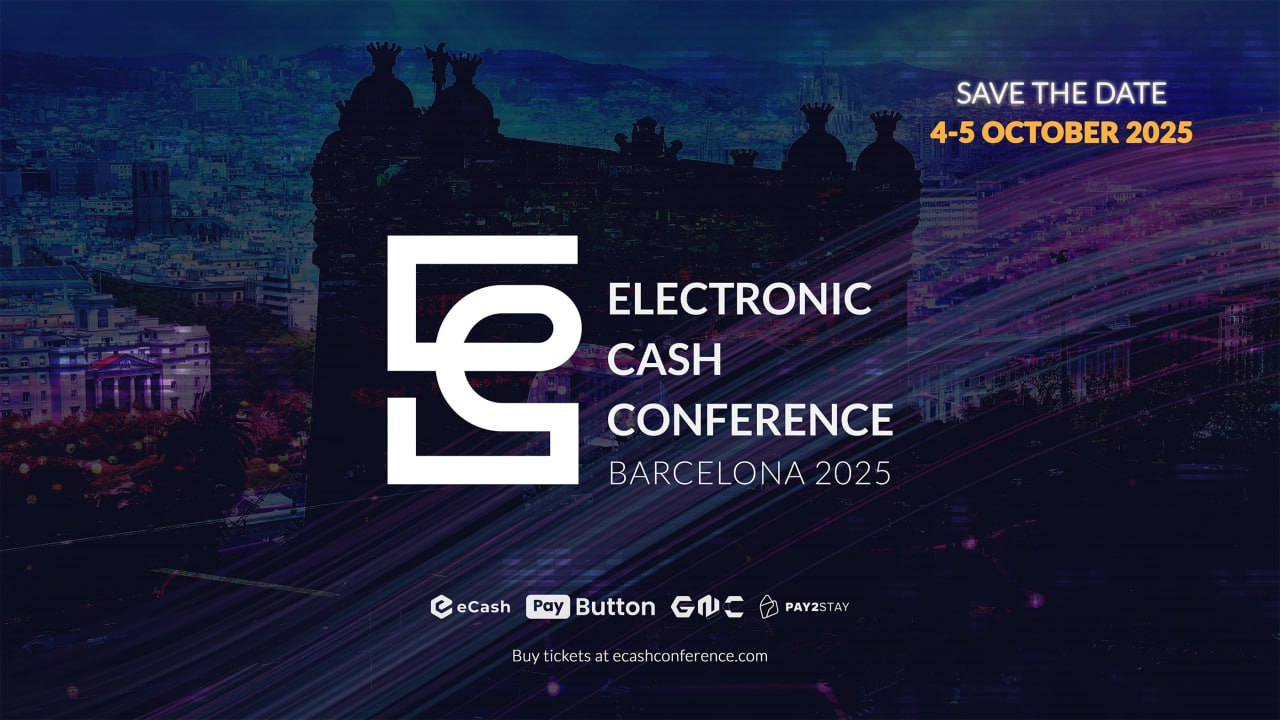
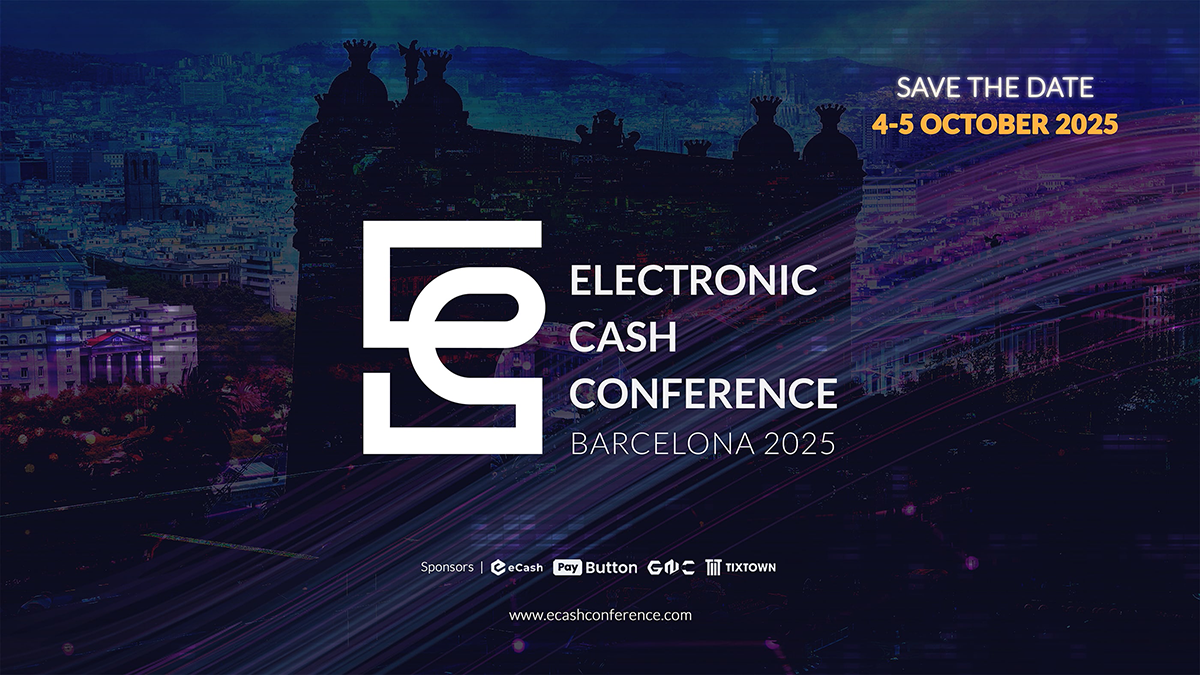
update images/tixtown

diff --git a/src/app/page.tsx b/src/app/page.tsx
@@ -61,7 +61,7 @@ export default function Home() {
         <LogoImage image="ecash-logo.png" />
         <LogoImage image="paybutton-logo.png" />
         <LogoImage image="gnc-logo.png" />
-        <LogoImage image="pay2stay-logo.png" />
+        <LogoImage image="tixtown-logo.png" />
       </div>
       <section
         className="fade-up mx-auto max-w-7xl px-6 py-30"
